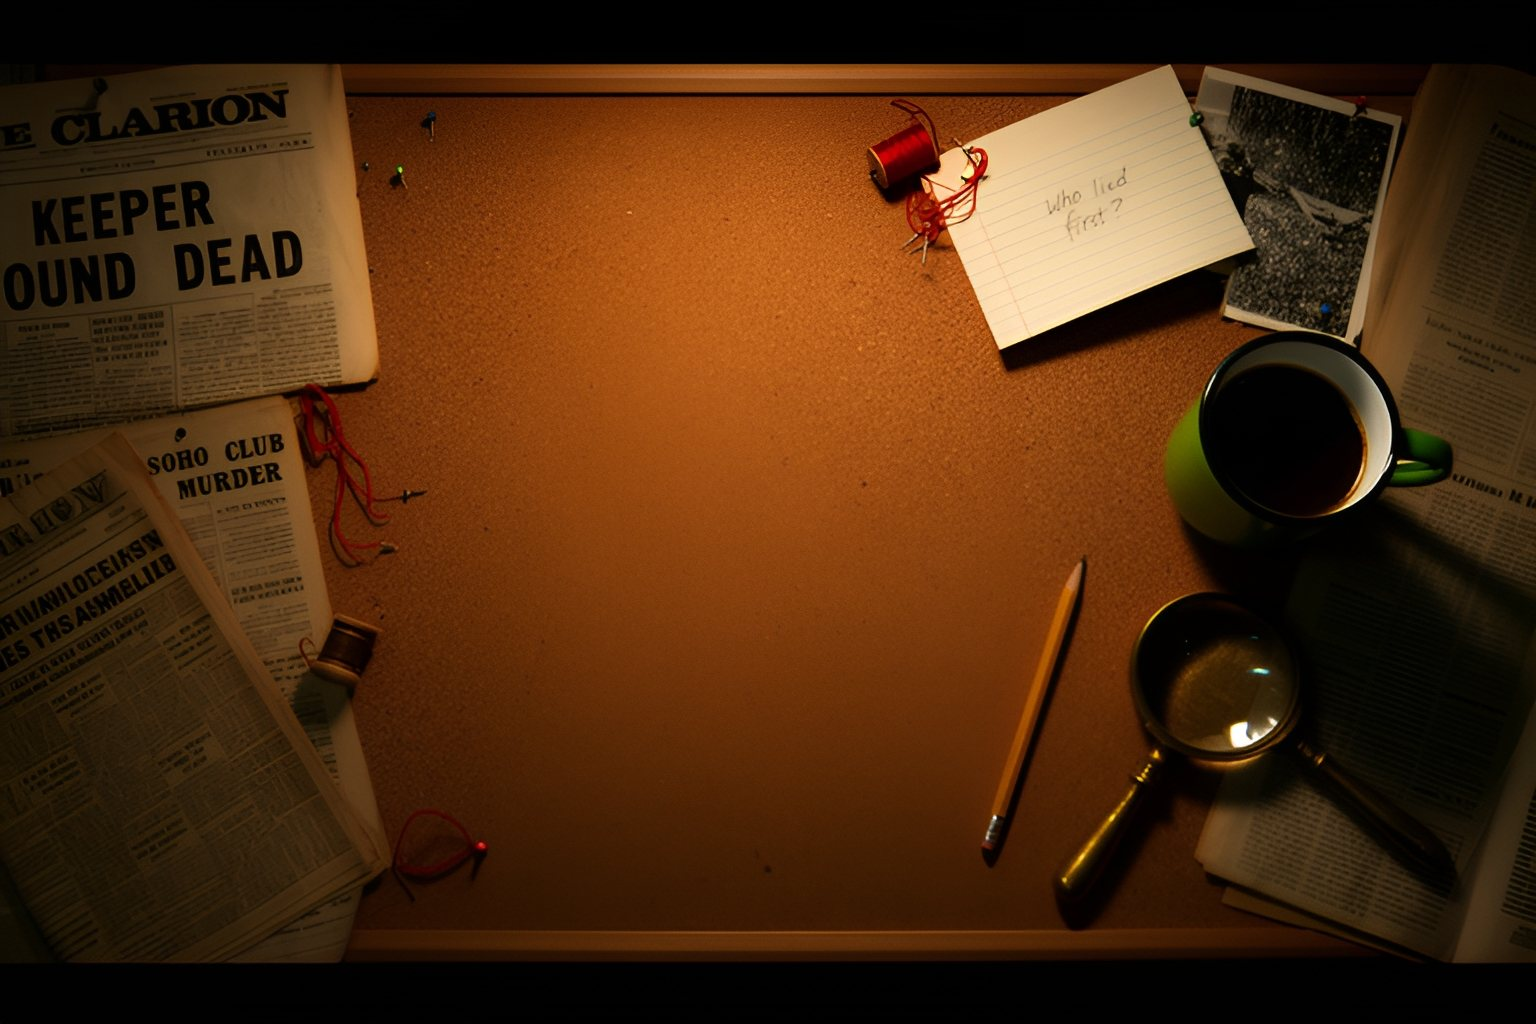
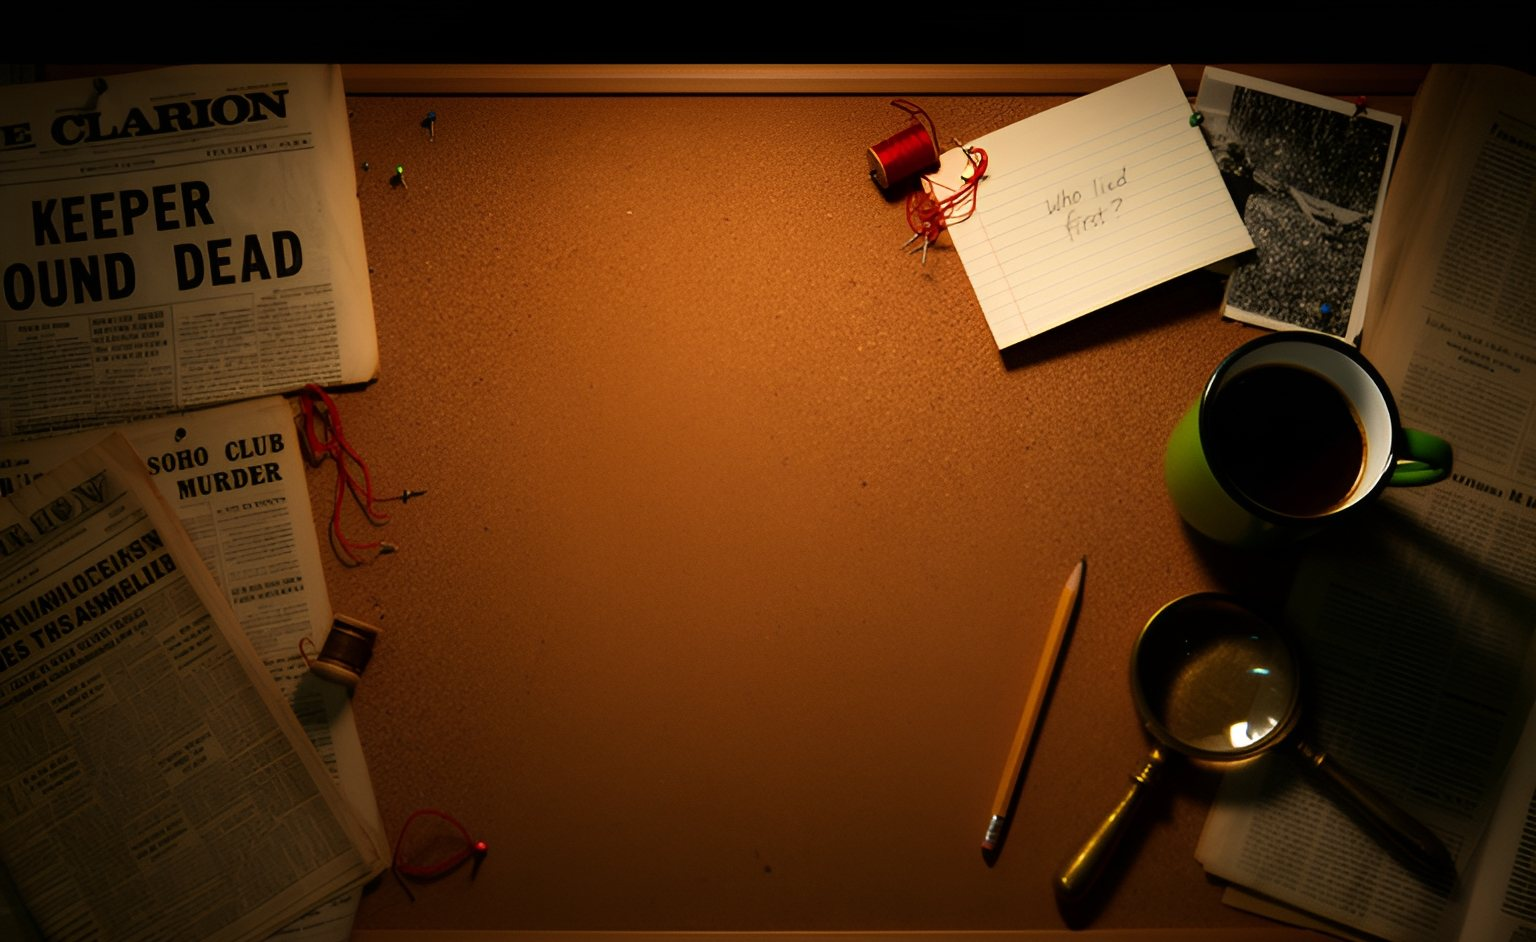
Run the board photos from the top of the page to the bottom
The three cork photos now cover the whole page instead of just the trail, so the
old drawn background no longer shows above the intro note or below the footer, and
the strip under the title bar is dark to match it. The photos cross-fade over
50px instead of 14% of their height, with their dark rims trimmed where they meet,
and they're stacked so the busiest edges (the Clarion masthead, the pipe) sit at the
very top and bottom where nothing fades.

Changed region(s): [[0.0, 0.0616, 1.0, 1.0], [0.6875, 0.1847, 0.75, 0.2463], [0.9375, 0.3386, 0.9688, 0.3694]]

diff --git a/board.html b/board.html
@@ -13,6 +13,7 @@
 <meta name="theme-color" content="#17130f"><meta name="apple-mobile-web-app-title" content="Daily Corpse">
 </head>
 <body class="board-page">
+<div class="backdrop" id="backdrop" aria-hidden="true"></div>
 <header class="board-bar">
   <h1><a href="index.html" style="color:inherit;text-decoration:none">The Daily <i>Corpse</i></a></h1>
   <span id="tally"></span>
@@ -62,21 +63,27 @@
   const string = `<svg class="string" viewBox="0 0 100 ${H}" preserveAspectRatio="none" aria-hidden="true">${pts.slice(1).map((p, i) =>
     `<path d="${seg(pts[i], p)}" class="${nodes[i].done ? 'walked' : ''}" vector-effect="non-scaling-stroke"/>`).join('')}</svg>`;
 
-  // Behind the trail: three photographs of the cork with desk clutter down both sides, stacked up the board and blended into
-  // each other. Each photo is used exactly once. On phones only each photo's two edges show, at the sides of the screen.
-  const SIDES = ['img/board/side1.jpg', 'img/board/side2.jpg', 'img/board/side3.jpg'], OVER = 140;
+  // Behind the whole page: three photographs of the cork with desk clutter down both sides, stacked from just under the
+  // title bar to the bottom of the page and cross-faded briefly where they meet. Each photo is used exactly once, in an
+  // order that keeps their busiest edges (the Clarion's masthead, the pipe) at the very top and bottom where nothing fades.
+  // On phones only each photo's two edges show, at the sides of the screen.
+  const SIDES = ['img/board/side3.jpg', 'img/board/side2.jpg', 'img/board/side1.jpg'], BLEND = 50;   // bottom to top
+  board.innerHTML = `<div class="col">${string}${trail}</div>`;
   const backdrop = () => {
-    const W = board.clientWidth, th = Math.round((H + OVER * (SIDES.length - 1)) / SIDES.length), iw = th * 1.5;
-    return SIDES.map((u, k) => {
-      const top = H - th - k * (th - OVER);   // side1 at the bottom, by the warm-up
-      if (W >= 760) return `<div class="side" style="top:${top}px;height:${th}px;background-image:url(${u})"></div>`;
+    const bd = $('#backdrop'), top0 = $('.board-bar').offsetHeight;
+    const total = document.documentElement.scrollHeight - top0, W = document.documentElement.clientWidth, n = SIDES.length;
+    const th = Math.round((total + BLEND * (n - 1)) / n), iw = th * 1.39, f = BLEND / th * 100;   // trimmed photos are about 1.39 : 1
+    bd.style.height = total + top0 + 'px'; bd.style.paddingTop = top0 + 'px';   // the strip under the title bar stays dark
+    bd.innerHTML = SIDES.map((u, k) => {
+      const top = top0 + total - th - k * (th - BLEND);
+      const fade = `--ft:${k === n - 1 ? 0 : f}%;--fb:${k === 0 ? 0 : f}%;top:${top}px;height:${th}px;background-image:url(${u})`;
+      if (W >= 760) return `<div class="side" style="${fade}"></div>`;
       const sw = Math.round(W * .3);           // phones: the inner part of each photo's left and right bands, at the screen edges
-      return `<div class="side l" style="top:${top}px;height:${th}px;width:${sw}px;background-image:url(${u});background-size:${iw}px ${th}px;background-position:${sw - iw * .3}px 0"></div>
-        <div class="side r" style="top:${top}px;height:${th}px;width:${sw}px;background-image:url(${u});background-size:${iw}px ${th}px;background-position:${-iw * .7}px 0"></div>`;
+      return `<div class="side l" style="${fade};width:${sw}px;background-size:${iw}px ${th}px;background-position:${sw - iw * .3}px 0"></div>
+        <div class="side r" style="${fade};width:${sw}px;background-size:${iw}px ${th}px;background-position:${-iw * .7}px 0"></div>`;
     }).join('');
   };
-  board.innerHTML = `<div class="backdrop">${backdrop()}</div><div class="col">${string}${trail}</div>`;
-  addEventListener('resize', () => { board.querySelector('.backdrop').innerHTML = backdrop(); });
+  backdrop(); addEventListener('resize', backdrop);
 
   board.onclick = e => {
     const b = e.target.closest('.pol[data-i]'); if (!b) return;

diff --git a/style.css b/style.css
@@ -365,13 +365,16 @@ dialog,.sheet{overscroll-behavior:contain}
 .board{--mm:1.82px;max-width:none;overflow:hidden}
 .board .col{position:absolute;top:0;bottom:0;left:50%;width:min(100%,560px);transform:translateX(-50%);z-index:1}
 .board .string{position:absolute;inset:0;width:100%;height:100%;z-index:0}
-.board .backdrop{position:absolute;inset:0;z-index:0;pointer-events:none}
-.board .side{position:absolute;left:0;right:0;background:center/cover no-repeat;
-  -webkit-mask-image:linear-gradient(transparent,#000 14%,#000 86%,transparent);mask-image:linear-gradient(transparent,#000 14%,#000 86%,transparent)}
-.board .side.l{right:auto;-webkit-mask-image:linear-gradient(transparent,#000 14%,#000 86%,transparent),linear-gradient(90deg,#000 70%,transparent);
-  mask-image:linear-gradient(transparent,#000 14%,#000 86%,transparent),linear-gradient(90deg,#000 70%,transparent);-webkit-mask-composite:source-in;mask-composite:intersect}
-.board .side.r{left:auto;right:0;-webkit-mask-image:linear-gradient(transparent,#000 14%,#000 86%,transparent),linear-gradient(270deg,#000 70%,transparent);
-  mask-image:linear-gradient(transparent,#000 14%,#000 86%,transparent),linear-gradient(270deg,#000 70%,transparent);-webkit-mask-composite:source-in;mask-composite:intersect}
+/* the backdrop spans the whole page; --ft/--fb are how far the top and bottom of each photo fade (0 at the page's very top and bottom) */
+body.board-page{position:relative}
+.backdrop{position:absolute;left:0;right:0;top:0;z-index:0;pointer-events:none;overflow:hidden;background:#140e09;box-sizing:border-box}
+.board-intro,.board,.bonus,body.board-page>footer{position:relative;z-index:1}
+.backdrop .side{position:absolute;left:0;right:0;background:center/cover no-repeat;
+  --fade:linear-gradient(transparent,#000 var(--ft),#000 calc(100% - var(--fb)),transparent);-webkit-mask-image:var(--fade);mask-image:var(--fade)}
+.backdrop .side.l{right:auto;-webkit-mask-image:var(--fade),linear-gradient(90deg,#000 70%,transparent);mask-image:var(--fade),linear-gradient(90deg,#000 70%,transparent);
+  -webkit-mask-composite:source-in;mask-composite:intersect}
+.backdrop .side.r{left:auto;right:0;-webkit-mask-image:var(--fade),linear-gradient(270deg,#000 70%,transparent);mask-image:var(--fade),linear-gradient(270deg,#000 70%,transparent);
+  -webkit-mask-composite:source-in;mask-composite:intersect}
 .board .pol{width:calc(88 * var(--mm));padding:calc(4.5 * var(--mm)) calc(4.5 * var(--mm)) calc(5 * var(--mm))}
 .board .pol-pic{width:calc(79 * var(--mm));height:calc(79 * var(--mm))}
 .lamp{z-index:0} .pol{z-index:2} .tag{z-index:3}
